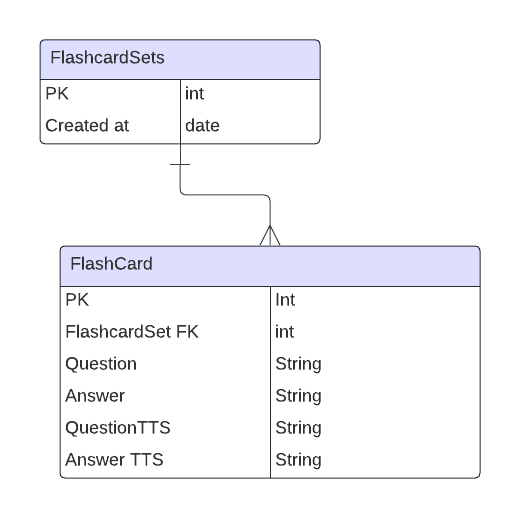
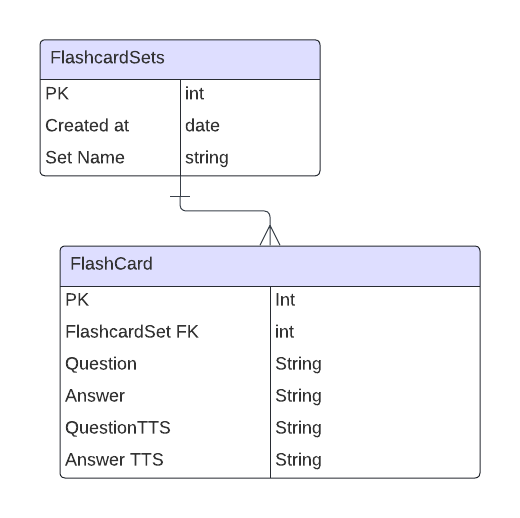
wip

Changed region(s): [[0.3385, 0.278, 0.5231, 0.4324], [0.0615, 0.278, 0.2462, 0.3398], [0.5846, 0.278, 0.6154, 0.3398]]

diff --git a/migrate.tsx b/migrate.tsx
@@ -1,0 +1,88 @@
+const pg = require('pg');
+require('dotenv').config();
+const { Client } = pg;
+
+async function migrateDB() {
+    let client = new Client({
+        user: process.env.DB_USER,
+        password: process.env.DB_PASSWORD,
+        host: process.env.DB_HOST,
+        port: process.env.DB_PORT,
+        database: 'postgres' // Connect to the default database initially
+    });
+
+    try {
+        await client.connect();
+
+        // Drop and recreate the database
+        await client.query('DROP DATABASE IF EXISTS "GAITS-project"');
+        await client.query('CREATE DATABASE "GAITS-project"');
+
+        console.log('Database GAITS-project created.');
+
+        // Close the initial connection
+        await client.end();
+
+        // Reconnect to the newly created database
+        client = new Client({
+            user: process.env.DB_USER,
+            password: process.env.DB_PASSWORD,
+            host: process.env.DB_HOST,
+            port: process.env.DB_PORT,
+            database: 'GAITS-project' // Connect to the new database
+        });
+
+        await client.connect();
+
+        // Create tables in the new database
+        const createTablesSQL = `
+            -- Create the FlashcardSets table
+            CREATE TABLE FlashcardSets (
+                PK SERIAL PRIMARY KEY,          -- Primary Key
+                CreatedAt DATE NOT NULL DEFAULT CURRENT_DATE, -- Default to current date if not provided
+                SetName VARCHAR(255) NOT NULL   -- Name of the flashcard set
+            );
+
+            -- Create the FlashCard table
+            CREATE TABLE FlashCard (
+                PK SERIAL PRIMARY KEY,                -- Primary Key
+                FlashcardSetFK INT NOT NULL,          -- Foreign Key referencing FlashcardSets
+                Question TEXT NOT NULL,               -- The question text
+                Answer TEXT NOT NULL,                 -- The answer text
+                QuestionTTS TEXT,                     -- Optional text-to-speech question data
+                AnswerTTS TEXT,                       -- Optional text-to-speech answer data
+                CONSTRAINT fk_flashcardset FOREIGN KEY (FlashcardSetFK)
+                REFERENCES FlashcardSets (PK)         -- Define the foreign key relationship
+                ON DELETE CASCADE                     -- Delete flashcards if their set is deleted
+            );
+        `;
+
+        await client.query(createTablesSQL);
+        console.log('Tables created successfully.');
+    } catch (err) {
+        console.error('Error during migration:', err);
+    }
+    finally {
+        await client.end();
+    }
+}
+
+
+async function seedFakeSets() {
+    let client = new Client({
+        user: process.env.DB_USER,
+        password: process.env.DB_PASSWORD,
+        host: process.env.DB_HOST,
+        port: process.env.DB_PORT,
+        database: 'GAITS-project' // Connect to the new database
+    });
+    try {
+
+    }
+    catch {
+
+    }
+    finally {}
+}
+
+migrateDB();

diff --git a/src/app/globals.css b/src/app/globals.css
@@ -40,3 +40,28 @@ a {
     color-scheme: dark;
   }
 }
+
+.flashcardSet {
+  border-width:2px;
+  border-style:solid;
+  border-color:#ededed;
+  border-radius: 20px;
+  height: 60px;
+  cursor: pointer;
+  display: flex;
+  align-items: center;
+  justify-content: center;
+  margin: 15px;
+}
+
+.flashcardBox {
+  border-width:2px;
+  border-style:solid;
+  width: 50vw;
+  border-color:#ededed;
+  border-radius: 20px;
+}
+
+button {
+  background-color: #ededed;
+}

diff --git a/src/app/page.tsx b/src/app/page.tsx
@@ -4,11 +4,9 @@ import FlashcardSetList from "./components/FlashcardSetList";
 export default function Home() {
   return (
     <div className={styles.page}>
-      <main className={styles.main}>
         <div>Select a Flashcard Set</div>
         <FlashcardSetList></FlashcardSetList>
-      </main>
-
+        <div className={styles.ctas}>Create A New Set</div>
     </div>
   );
 }

diff --git a/src/app/components/FlashcardSetList.tsx b/src/app/components/FlashcardSetList.tsx
@@ -1,4 +1,9 @@
 export default function FlashcardSetList() {
-    return (<div>aaa</div>)
+    const a = [1,1,1,1,1,1,1,]
+    return (<div className="flashcardBox">
+        {a.map((el,i) => {return (
+            <div className="flashcardSet" key={i}>aaa</div>
+        )})}
+    </div>)
 
 }
